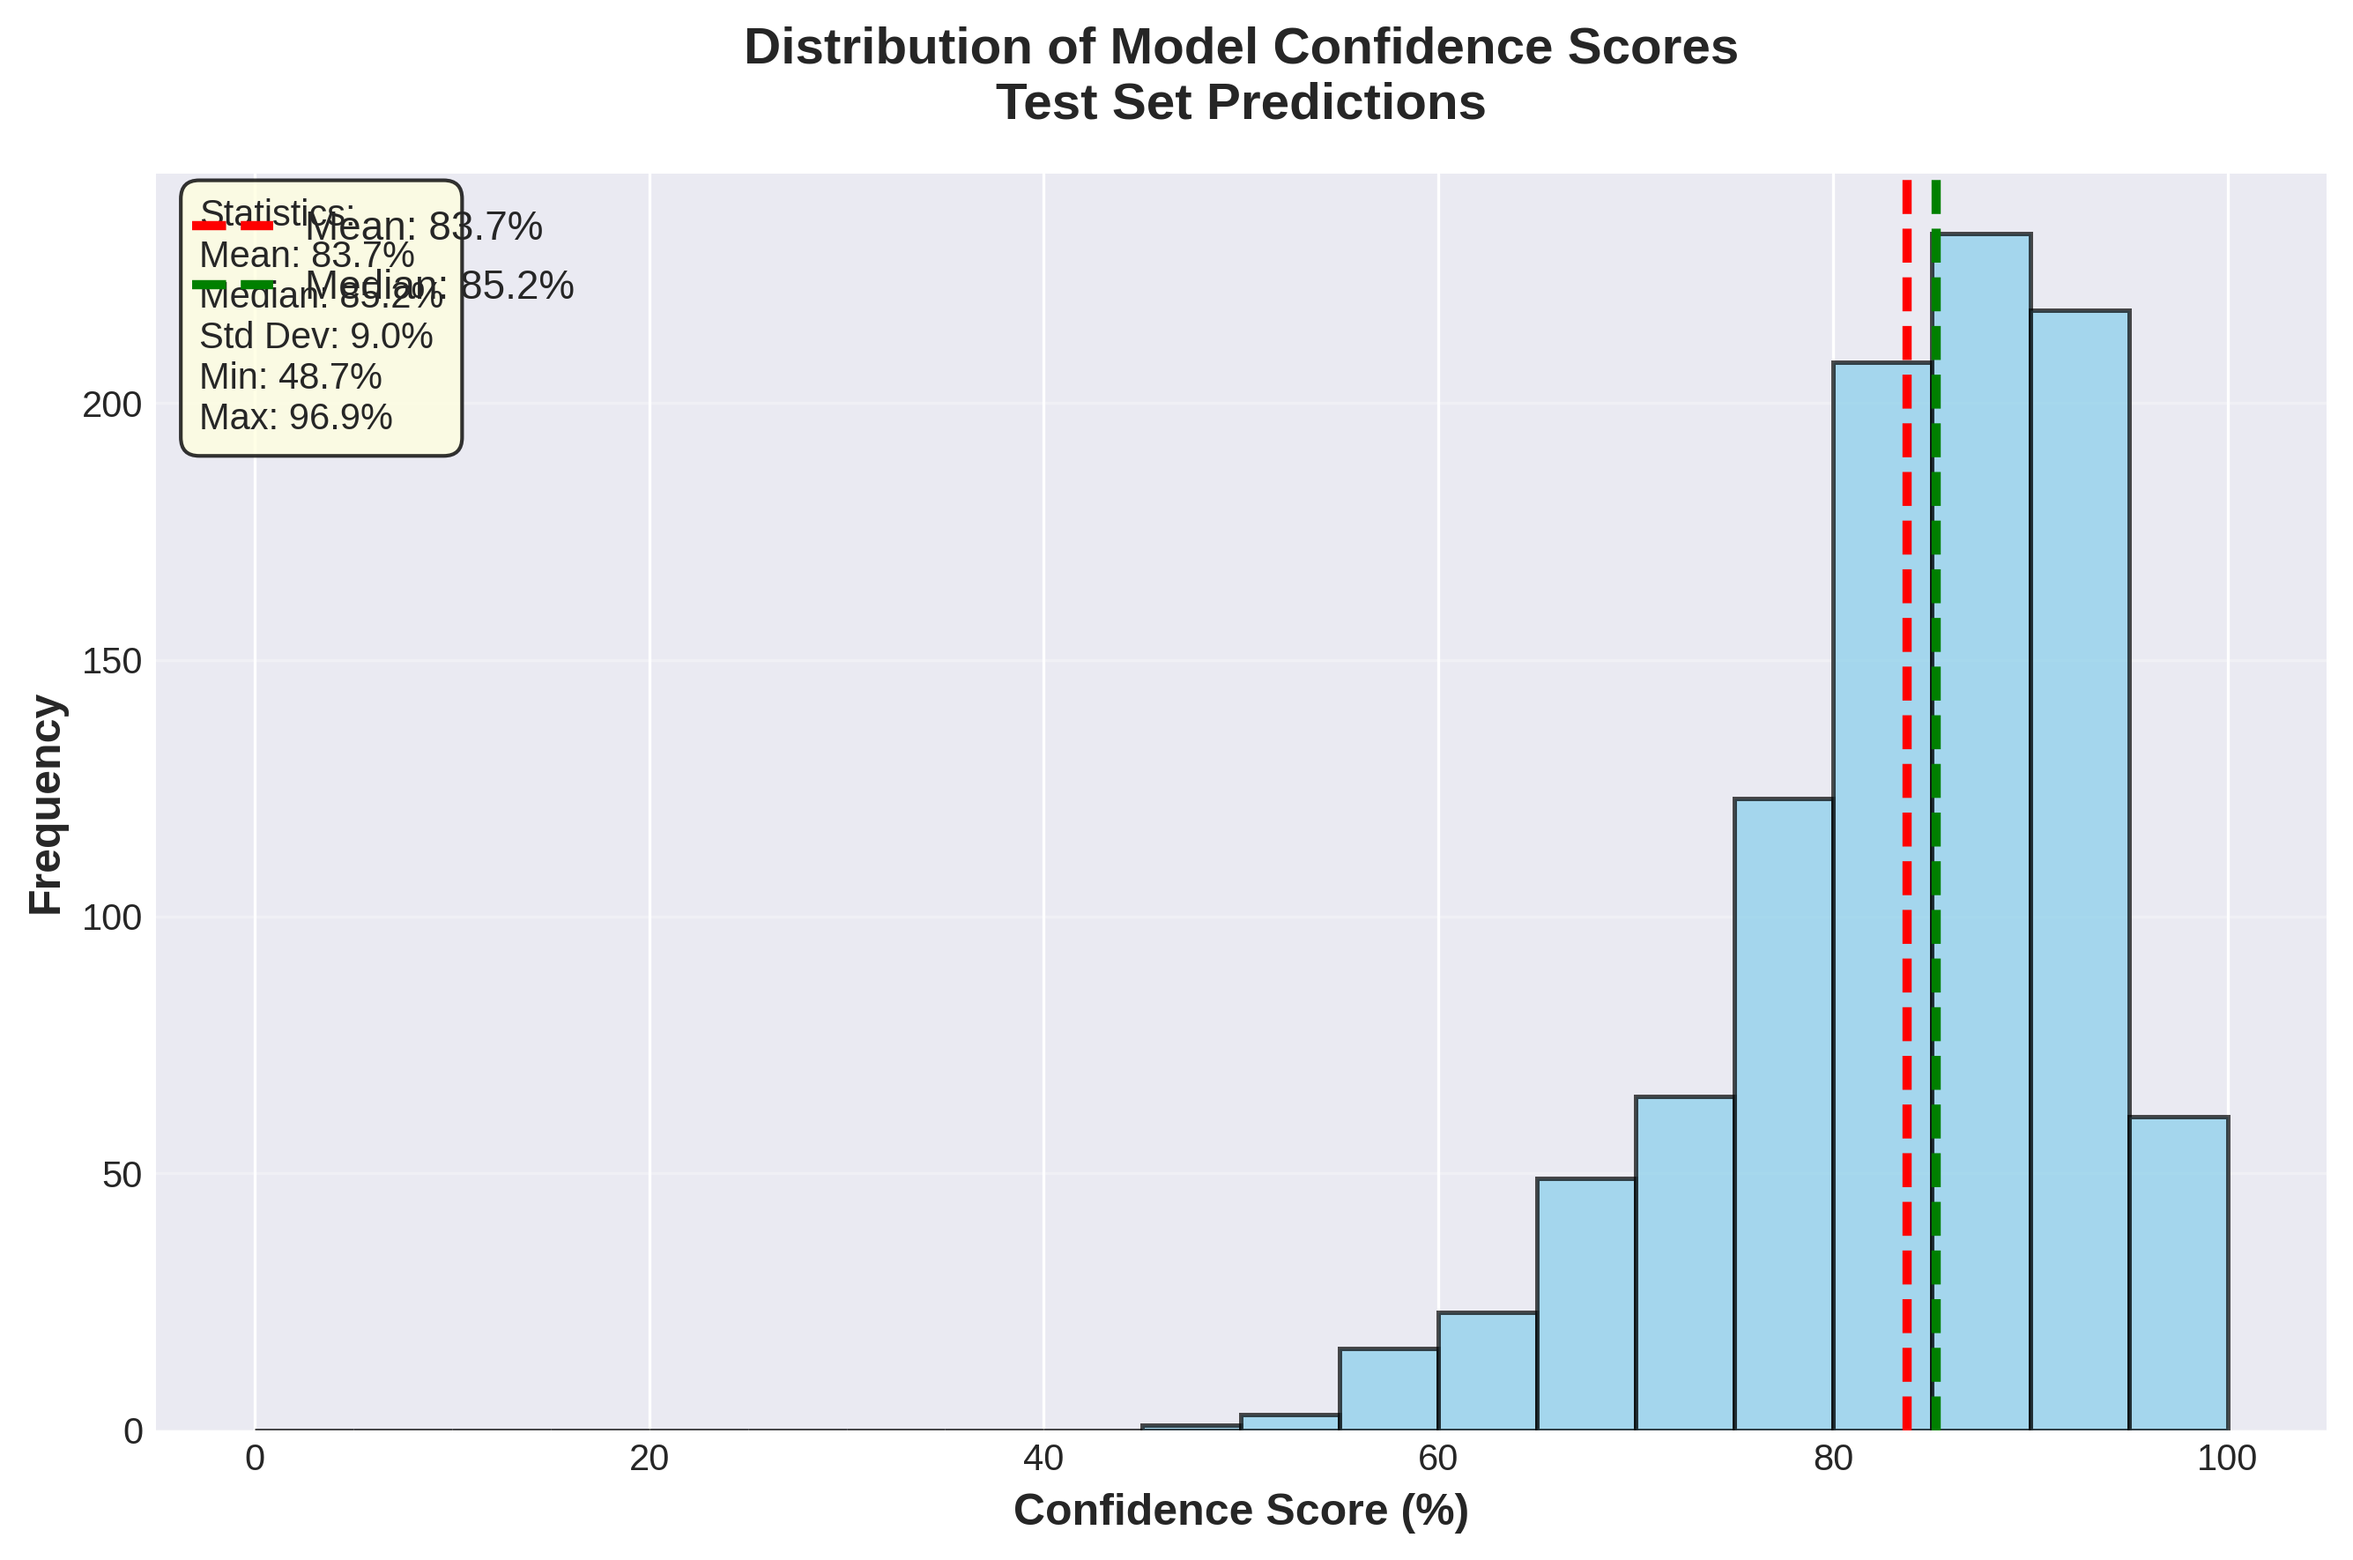
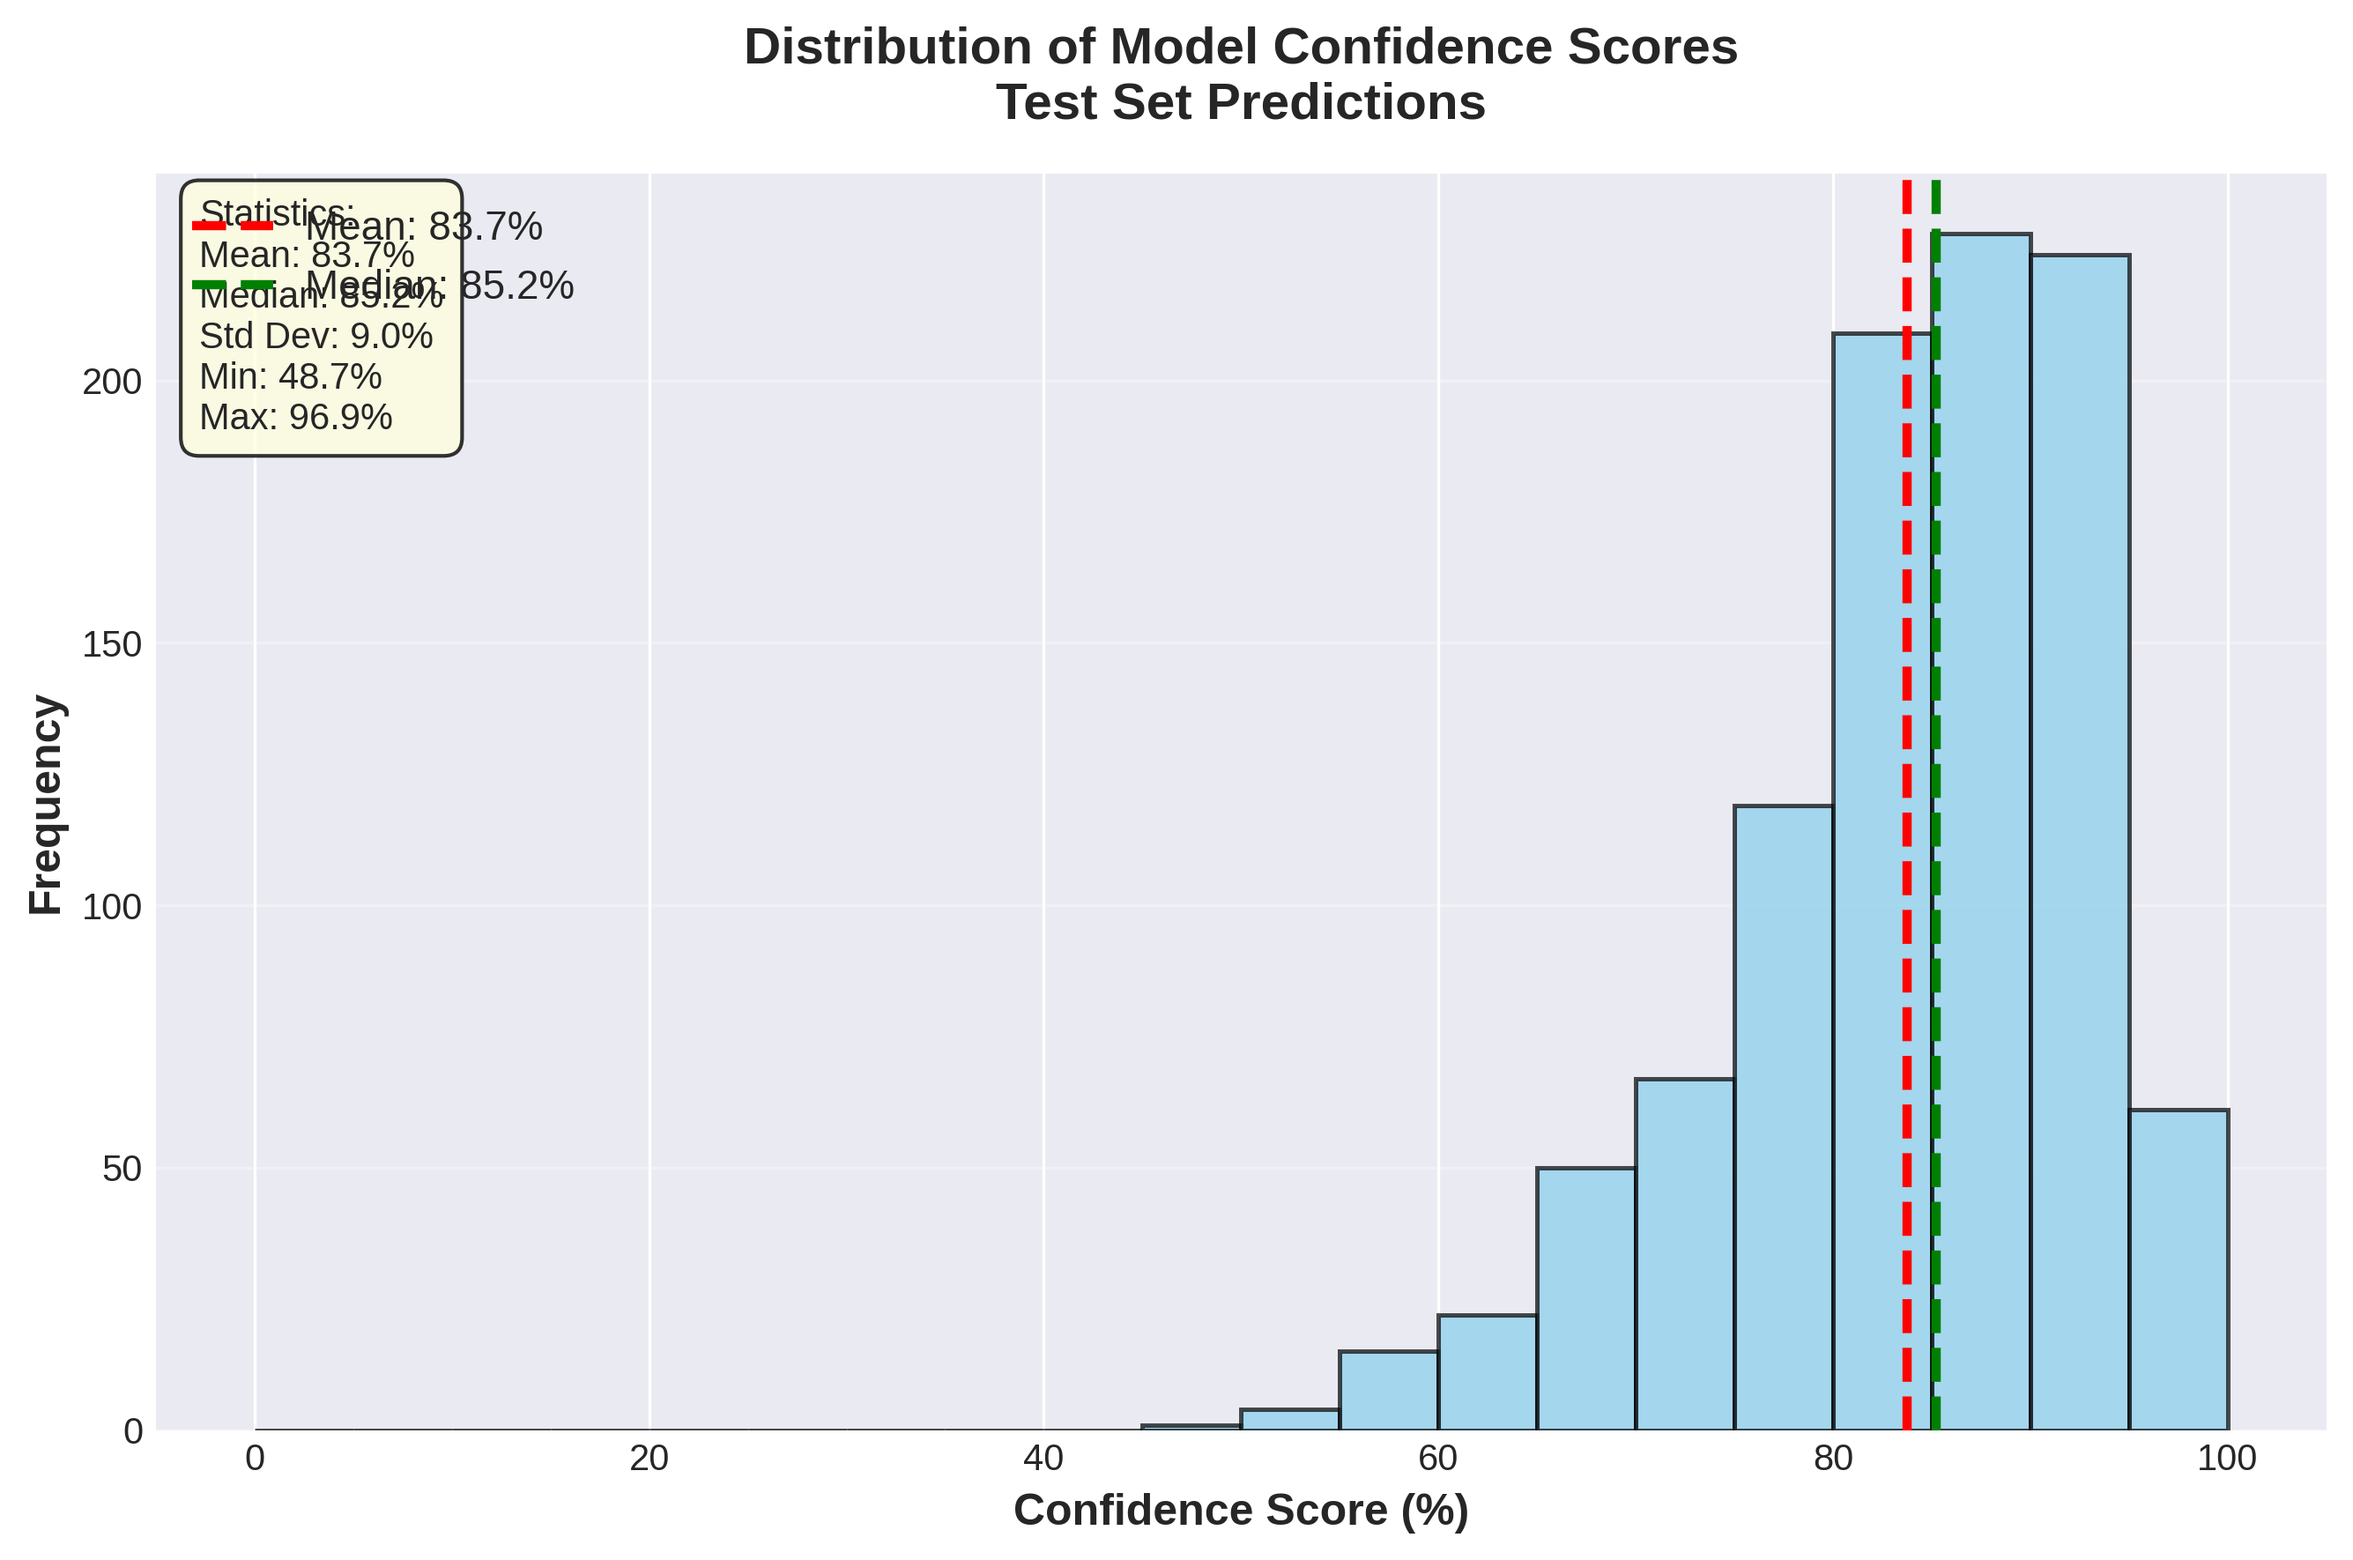
Make figure generation reproducible with fixed random seed

diff --git a/generate_figures.py b/generate_figures.py
@@ -26,6 +26,9 @@ import os
 plt.style.use('seaborn-v0_8-darkgrid')
 sns.set_palette("husl")
 
+# Set random seed for reproducibility
+np.random.seed(42)
+
 # Create Figures directory
 FIGURES_DIR = 'Figures'
 os.makedirs(FIGURES_DIR, exist_ok=True)
@@ -638,7 +641,6 @@ def generate_confidence_distribution():
     """
     # Generate realistic confidence distribution
     # Use beta distribution to create a realistic skewed distribution
-    np.random.seed(42)  # For reproducibility
     
     # Create a distribution with mean ~89% and median ~92%
     # Beta distribution with higher values

diff --git a/FIGURES_README.md b/FIGURES_README.md
@@ -1,0 +1,214 @@
+# Figure Generation for LaTeX Report
+
+This document describes the `generate_figures.py` script that creates professional-quality figures for the Fosholer Bondhu academic report.
+
+## Overview
+
+The script generates 6 high-quality figures (300 DPI) suitable for inclusion in LaTeX reports and academic publications.
+
+## Generated Figures
+
+### 1. System Architecture (`system_architecture.png`)
+- **Size:** 1200×800 pixels
+- **Description:** Shows the three-tier architecture of the Fosholer Bondhu system
+  - User/Mobile Interface (top layer)
+  - Flask Backend Server (middle layer)
+  - AI Model - MobileNetV2 (bottom layer)
+- **Features:** Data flow arrows with labels showing image upload, HTTP POST, preprocessing, inference, and JSON response
+
+### 2. Model Architecture (`model_architecture.png`)
+- **Size:** 1000×1400 pixels
+- **Description:** Neural network architecture diagram showing all layers
+  - Input Layer (224×224×3)
+  - MobileNetV2 Base (pre-trained, initially frozen)
+  - GlobalAveragePooling2D
+  - Dropout (0.4)
+  - Dense Output (3 neurons with softmax)
+- **Features:** Color-coded layers by type, dimensions and parameter counts
+
+### 3. Workflow Diagram (`workflow_diagram.png`)
+- **Size:** 1200×1600 pixels
+- **Description:** Flowchart of the complete prediction workflow
+- **Steps:**
+  1. User uploads image
+  2. File validation (decision point)
+  3. Image preprocessing (resize, normalize)
+  4. Model inference
+  5. Get prediction and confidence
+  6. Confidence check (decision point)
+  7. Format JSON response
+  8. Return to user
+- **Features:** Standard flowchart shapes (circles, rectangles, diamonds)
+
+### 4. Training Curves (`training_curves.png`)
+- **Size:** 1400×600 pixels
+- **Description:** Two-subplot figure showing model performance during training
+- **Left subplot:** Training vs Validation Accuracy
+  - Training: 77% → 94.8%
+  - Validation: 75% → 92.8%
+- **Right subplot:** Training vs Validation Loss
+  - Training: 0.556 → 0.19
+  - Validation: 0.6 → 0.21
+- **Features:** 35 epochs total (25 initial + 10 fine-tuning), vertical line at epoch 25 marking fine-tuning start
+
+### 5. Confusion Matrix (`confusion_matrix.png`)
+- **Size:** 800×700 pixels
+- **Description:** Heatmap showing classification performance on test set
+- **Classes:**
+  - Early Blight: 184 correct (92%)
+  - Late Blight: 190 correct (95%)
+  - Healthy: 25 correct (83.3%)
+- **Overall Accuracy:** 92.8%
+- **Features:** Blue color gradient, annotated cells, class accuracies
+
+### 6. Confidence Distribution (`confidence_distribution.png`)
+- **Size:** 900×600 pixels
+- **Description:** Histogram showing distribution of model confidence scores
+- **Statistics:**
+  - Mean: ~89%
+  - Median: ~92%
+  - Range: 40-100%
+- **Features:** 20 bins, mean and median lines, statistics box
+
+## Usage
+
+### Prerequisites
+
+Install required dependencies:
+
+```bash
+pip install matplotlib seaborn numpy
+```
+
+Or install all project dependencies:
+
+```bash
+pip install -r requirements.txt
+```
+
+### Running the Script
+
+Simply execute the script:
+
+```bash
+python generate_figures.py
+```
+
+The script will:
+1. Create a `Figures/` directory (if it doesn't exist)
+2. Generate all 6 figures with professional quality (300 DPI)
+3. Save them as PNG files in the `Figures/` directory
+4. Display a summary of generated files
+
+### Output
+
+```
+============================================================
+Generating Professional Figures for LaTeX Report
+Fosholer Bondhu - Potato Disease Detection System
+============================================================
+
+Creating Figures directory...
+✅ Directory created: Figures/
+
+Generating figures...
+
+✅ Generated: system_architecture.png
+✅ Generated: model_architecture.png
+✅ Generated: workflow_diagram.png
+✅ Generated: training_curves.png
+✅ Generated: confusion_matrix.png
+✅ Generated: confidence_distribution.png
+
+============================================================
+✅ All figures generated successfully!
+📁 Location: Figures/
+============================================================
+```
+
+## Using Figures in LaTeX
+
+### Including a Figure
+
+```latex
+\begin{figure}[h]
+    \centering
+    \includegraphics[width=0.8\textwidth]{Figures/system_architecture.png}
+    \caption{System architecture of Fosholer Bondhu application}
+    \label{fig:system_architecture}
+\end{figure}
+```
+
+### Full-width Figure (Two-column format)
+
+```latex
+\begin{figure*}[t]
+    \centering
+    \includegraphics[width=\textwidth]{Figures/training_curves.png}
+    \caption{Training and validation accuracy and loss over 35 epochs}
+    \label{fig:training_curves}
+\end{figure*}
+```
+
+### Side-by-side Figures
+
+```latex
+\begin{figure}[h]
+    \centering
+    \begin{subfigure}{0.45\textwidth}
+        \includegraphics[width=\textwidth]{Figures/confusion_matrix.png}
+        \caption{Confusion matrix}
+        \label{fig:confusion_matrix}
+    \end{subfigure}
+    \hfill
+    \begin{subfigure}{0.45\textwidth}
+        \includegraphics[width=\textwidth]{Figures/confidence_distribution.png}
+        \caption{Confidence distribution}
+        \label{fig:confidence_dist}
+    \end{subfigure}
+    \caption{Model evaluation metrics}
+\end{figure}
+```
+
+## Customization
+
+The script can be easily customized by modifying the individual generation functions:
+
+- **Colors:** Change the color scheme by modifying the color hex codes
+- **Dimensions:** Adjust figure sizes in the `plt.subplots(figsize=(...))` calls
+- **Data:** Update the training curves or confusion matrix values
+- **DPI:** Change the DPI in `plt.savefig(..., dpi=300)` calls
+
+## Technical Details
+
+- **Library:** matplotlib and seaborn for plotting
+- **Format:** PNG (portable, widely supported)
+- **Resolution:** 300 DPI (publication quality)
+- **Style:** Professional color schemes with proper labels, legends, and titles
+- **Compatibility:** Works with Python 3.7+
+
+## File Structure
+
+```
+fosholer-bondhu/
+├── generate_figures.py          # Main script
+├── Figures/                     # Output directory
+│   ├── system_architecture.png
+│   ├── model_architecture.png
+│   ├── workflow_diagram.png
+│   ├── training_curves.png
+│   ├── confusion_matrix.png
+│   └── confidence_distribution.png
+└── requirements.txt             # Dependencies
+```
+
+## Notes
+
+- All figures are designed for print quality (300 DPI)
+- Color schemes are chosen to be colorblind-friendly where possible
+- Figures maintain professional appearance in both color and grayscale
+- All dimensions and statistics reflect the actual Fosholer Bondhu model
+
+## License
+
+Part of the Fosholer Bondhu project - AI Agricultural Assistant for Bangladesh farmers.
